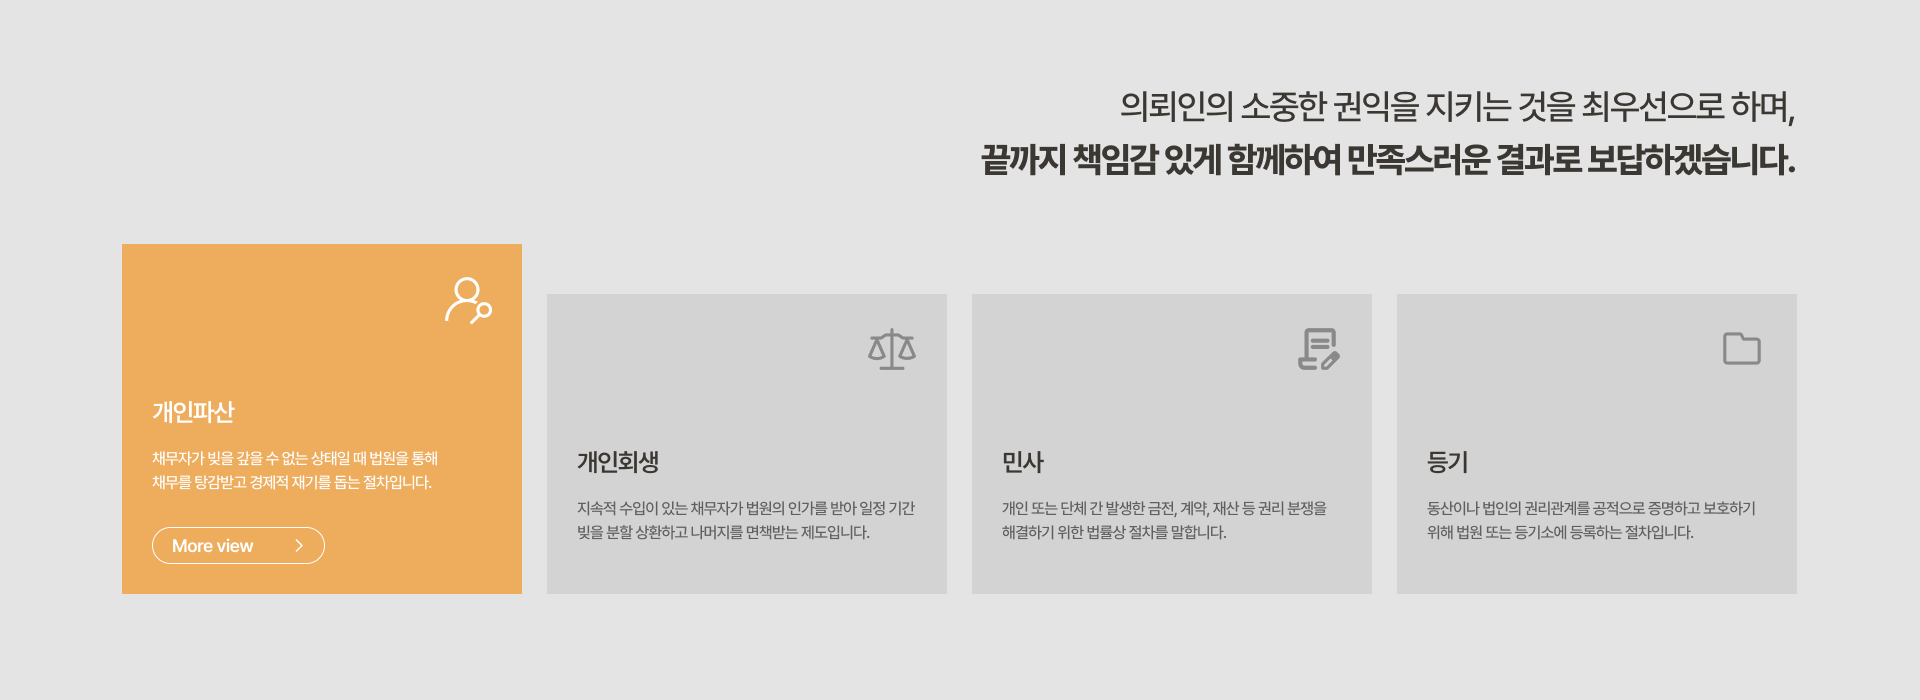
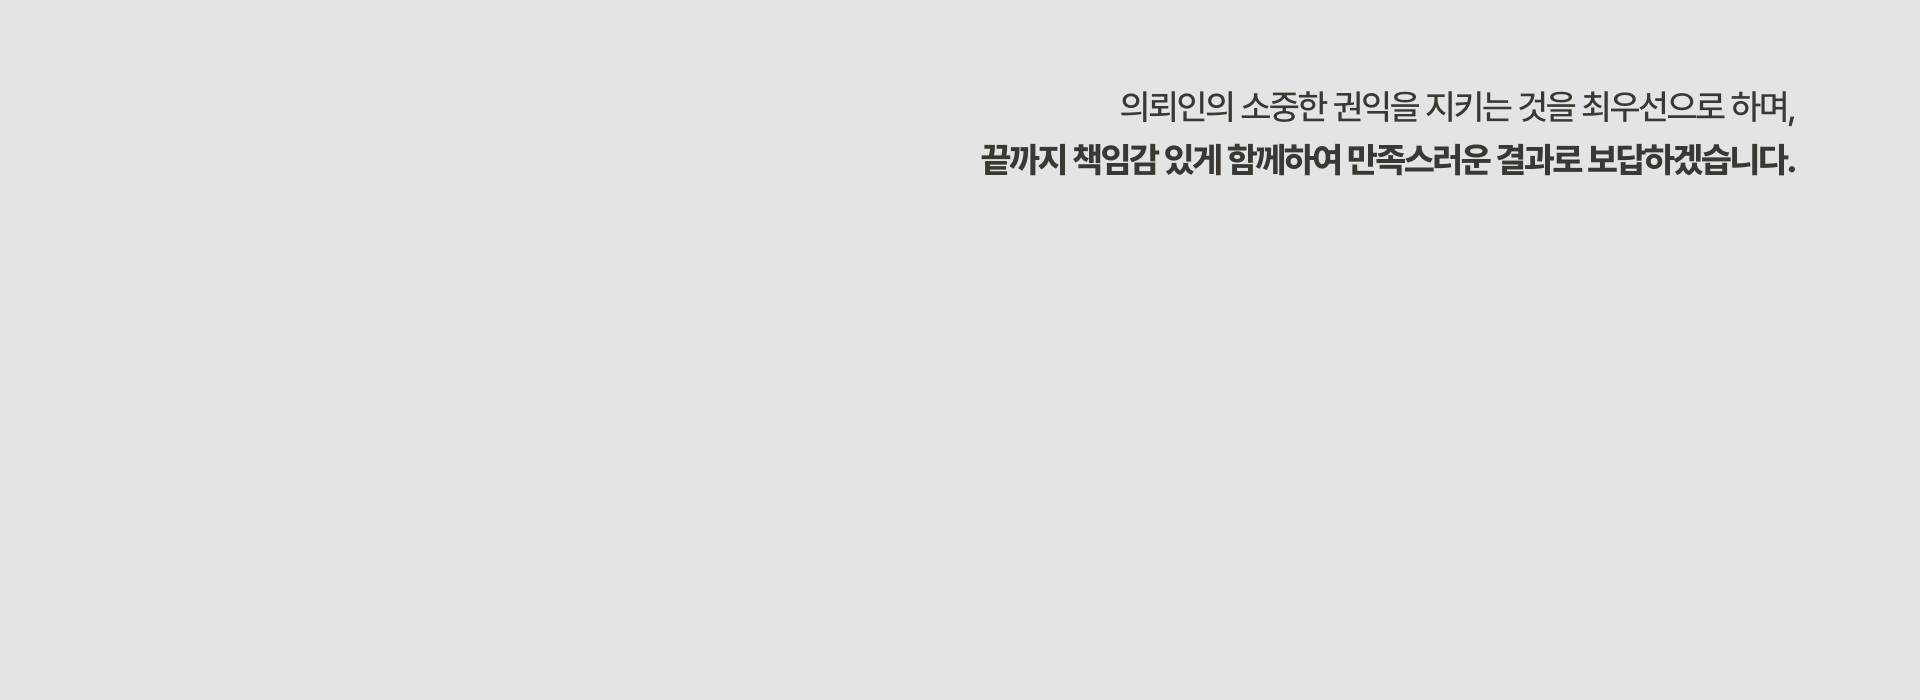
Add mobile responsive layout with separate mobile section images
- Split page into mobile (md:hidden) and desktop (hidden md:block) views
- Mobile uses dedicated images from /mobile_section/ (m_section_01~07)
- Mobile section 4 has 2x2 card overlay with adjusted sizing
- Desktop layout remains unchanged with 4-column card overlay
- Updated section_04.png

diff --git a/src/app/page.tsx b/src/app/page.tsx
@@ -12,13 +12,25 @@ const bottomSections = [
   { src: "/pc_section/section_06.png", alt: "섹션 6" },
 ];
 
+const mobileTopSections = [
+  { src: "/mobile_section/m_section_01.png", alt: "모바일 섹션 1" },
+  { src: "/mobile_section/m_section_02.png", alt: "모바일 섹션 2" },
+  { src: "/mobile_section/m_section_03.png", alt: "모바일 섹션 3" },
+];
+
+const mobileBottomSections = [
+  { src: "/mobile_section/m_section_05.png", alt: "모바일 섹션 5" },
+  { src: "/mobile_section/m_section_06.png", alt: "모바일 섹션 6" },
+  { src: "/mobile_section/m_section_07.png", alt: "모바일 섹션 7" },
+];
+
 const serviceCards = [
   {
     title: "개인파산",
     desc: "채무자가 빚을 갚을 수 없는 상태일 때 법원을 통해 채무를 탕감받고 경제적 재기를 돕는 절차입니다.",
     href: "/bankruptcy",
     icon: (
-      <svg xmlns="http://www.w3.org/2000/svg" fill="none" viewBox="0 0 24 24" strokeWidth={1.5} stroke="currentColor" className="w-10 h-10">
+      <svg xmlns="http://www.w3.org/2000/svg" fill="none" viewBox="0 0 24 24" strokeWidth={1.5} stroke="currentColor" className="w-6 h-6 md:w-10 md:h-10">
         <path strokeLinecap="round" strokeLinejoin="round" d="M15.75 6a3.75 3.75 0 1 1-7.5 0 3.75 3.75 0 0 1 7.5 0ZM4.501 20.118a7.5 7.5 0 0 1 14.998 0A17.933 17.933 0 0 1 12 21.75c-2.676 0-5.216-.584-7.499-1.632Z" />
       </svg>
     ),
@@ -28,7 +40,7 @@ const serviceCards = [
     desc: "지속적 수입이 있는 채무자가 법원의 인가를 받아 일정 기간 빚을 분할 상환하고 나머지를 면책받는 제도입니다.",
     href: "/rehabilitation",
     icon: (
-      <svg xmlns="http://www.w3.org/2000/svg" fill="none" viewBox="0 0 24 24" strokeWidth={1.5} stroke="currentColor" className="w-10 h-10">
+      <svg xmlns="http://www.w3.org/2000/svg" fill="none" viewBox="0 0 24 24" strokeWidth={1.5} stroke="currentColor" className="w-6 h-6 md:w-10 md:h-10">
         <path strokeLinecap="round" strokeLinejoin="round" d="M12 3v17.25m0 0c-1.472 0-2.882.265-4.185.75M12 20.25c1.472 0 2.882.265 4.185.75M18.75 4.97A48.416 48.416 0 0 0 12 4.5c-2.291 0-4.545.16-6.75.47m13.5 0c1.01.143 2.01.317 3 .52m-3-.52 2.62 10.726c.122.499-.106 1.028-.589 1.202a5.988 5.988 0 0 1-2.031.352 5.988 5.988 0 0 1-2.031-.352c-.483-.174-.711-.703-.59-1.202L18.75 4.971Zm-16.5.52c.99-.203 1.99-.377 3-.52m0 0 2.62 10.726c.122.499-.106 1.028-.589 1.202a5.989 5.989 0 0 1-2.031.352 5.989 5.989 0 0 1-2.031-.352c-.483-.174-.711-.703-.59-1.202L5.25 4.971Z" />
       </svg>
     ),
@@ -38,7 +50,7 @@ const serviceCards = [
     desc: "개인 또는 단체 간 발생한 금전, 계약, 재산 등 권리 분쟁을 해결하기 위한 법률상 절차를 말합니다.",
     href: "/civil",
     icon: (
-      <svg xmlns="http://www.w3.org/2000/svg" fill="none" viewBox="0 0 24 24" strokeWidth={1.5} stroke="currentColor" className="w-10 h-10">
+      <svg xmlns="http://www.w3.org/2000/svg" fill="none" viewBox="0 0 24 24" strokeWidth={1.5} stroke="currentColor" className="w-6 h-6 md:w-10 md:h-10">
         <path strokeLinecap="round" strokeLinejoin="round" d="M19.5 14.25v-2.625a3.375 3.375 0 0 0-3.375-3.375h-1.5A1.125 1.125 0 0 1 13.5 7.125v-1.5a3.375 3.375 0 0 0-3.375-3.375H8.25m2.25 0H5.625c-.621 0-1.125.504-1.125 1.125v17.25c0 .621.504 1.125 1.125 1.125h12.75c.621 0 1.125-.504 1.125-1.125V11.25a9 9 0 0 0-9-9Z" />
       </svg>
     ),
@@ -48,7 +60,7 @@ const serviceCards = [
     desc: "동산이나 법인의 권리관계를 공적으로 증명하고 보호하기 위해 법원 또는 등기소에 등록하는 절차입니다.",
     href: "/registry",
     icon: (
-      <svg xmlns="http://www.w3.org/2000/svg" fill="none" viewBox="0 0 24 24" strokeWidth={1.5} stroke="currentColor" className="w-10 h-10">
+      <svg xmlns="http://www.w3.org/2000/svg" fill="none" viewBox="0 0 24 24" strokeWidth={1.5} stroke="currentColor" className="w-6 h-6 md:w-10 md:h-10">
         <path strokeLinecap="round" strokeLinejoin="round" d="M2.25 12.75V12A2.25 2.25 0 0 1 4.5 9.75h15A2.25 2.25 0 0 1 21.75 12v.75m-8.69-6.44-2.12-2.12a1.5 1.5 0 0 0-1.061-.44H4.5A2.25 2.25 0 0 0 2.25 6v12a2.25 2.25 0 0 0 2.25 2.25h15A2.25 2.25 0 0 0 21.75 18V9a2.25 2.25 0 0 0-2.25-2.25h-5.379a1.5 1.5 0 0 1-1.06-.44Z" />
       </svg>
     ),
@@ -58,54 +70,117 @@ const serviceCards = [
 export default function Home() {
   return (
     <div className="flex flex-col w-full">
-      {topSections.map((section) => (
-        <Image
-          key={section.src}
-          src={section.src}
-          alt={section.alt}
-          width={1920}
-          height={1080}
-          className="w-full h-auto"
-        />
-      ))}
+      {/* 모바일 */}
+      <div className="md:hidden">
+        {mobileTopSections.map((section) => (
+          <Image
+            key={section.src}
+            src={section.src}
+            alt={section.alt}
+            width={750}
+            height={1334}
+            className="w-full h-auto"
+          />
+        ))}
 
-      {/* 섹션 4 - 배경 이미지 + 카드 */}
-      <div
-        className="relative w-full bg-cover bg-center bg-no-repeat"
-        style={{ backgroundImage: "url(/pc_section/section_04.png)" }}
-      >
-        <div className="w-full flex items-end justify-center py-[3%]">
-          <div className="grid grid-cols-4 gap-6 w-[90%] mx-auto">
-            {serviceCards.map((card) => (
-              <Link
-                key={card.href}
-                href={card.href}
-                className="group block rounded-lg p-10 hover:brightness-95 transition-all relative"
-                style={{ backgroundColor: "#D3D3D3", minHeight: "280px" }}
-              >
-                <div className="absolute top-8 right-8 text-zinc-400 group-hover:text-zinc-500 transition-colors">
-                  {card.icon}
-                </div>
-                <div className="absolute bottom-8 left-10 right-10">
-                  <h3 className="text-2xl font-bold text-zinc-800 mb-3">{card.title}</h3>
-                  <p className="text-sm text-zinc-500 leading-relaxed">{card.desc}</p>
-                </div>
-              </Link>
-            ))}
+        {/* 모바일 섹션 4 - 이미지 위에 카드 오버레이 */}
+        <div className="relative w-full">
+          <Image
+            src="/mobile_section/m_section_04.png"
+            alt="모바일 섹션 4"
+            width={750}
+            height={1334}
+            className="w-full h-auto"
+          />
+          <div className="absolute bottom-[8%] left-0 right-0 flex justify-center">
+            <div className="grid grid-cols-2 gap-2 w-[90%]">
+              {serviceCards.map((card) => (
+                <Link
+                  key={card.href}
+                  href={card.href}
+                  className="group block rounded-lg p-4 hover:brightness-95 transition-all relative min-h-[130px]"
+                  style={{ backgroundColor: "#D3D3D3" }}
+                >
+                  <div className="absolute top-3 right-3 text-zinc-400 group-hover:text-zinc-500 transition-colors">
+                    {card.icon}
+                  </div>
+                  <div className="absolute bottom-3 left-4 right-4">
+                    <h3 className="text-base font-bold text-zinc-800 mb-1">{card.title}</h3>
+                    <p className="text-[11px] text-zinc-500 leading-relaxed">{card.desc}</p>
+                  </div>
+                </Link>
+              ))}
+            </div>
           </div>
         </div>
+
+        {mobileBottomSections.map((section) => (
+          <Image
+            key={section.src}
+            src={section.src}
+            alt={section.alt}
+            width={750}
+            height={1334}
+            className="w-full h-auto"
+          />
+        ))}
       </div>
 
-      {bottomSections.map((section) => (
-        <Image
-          key={section.src}
-          src={section.src}
-          alt={section.alt}
-          width={1920}
-          height={1080}
-          className="w-full h-auto"
-        />
-      ))}
+      {/* 데스크탑: PC 전용 이미지 + 섹션4 카드 오버레이 */}
+      <div className="hidden md:block">
+        {topSections.map((section) => (
+          <Image
+            key={section.src}
+            src={section.src}
+            alt={section.alt}
+            width={1920}
+            height={1080}
+            className="w-full h-auto"
+          />
+        ))}
+
+        {/* 섹션 4 - 이미지 위에 카드 오버레이 */}
+        <div className="relative w-full">
+          <Image
+            src="/pc_section/section_04.png"
+            alt="섹션 4"
+            width={1920}
+            height={1080}
+            className="w-full h-auto"
+          />
+          <div className="flex absolute bottom-[15%] left-0 right-0 justify-center">
+            <div className="grid grid-cols-4 gap-6 w-[85%]">
+              {serviceCards.map((card) => (
+                <Link
+                  key={card.href}
+                  href={card.href}
+                  className="group block rounded-lg p-10 hover:brightness-95 transition-all relative min-h-[280px]"
+                  style={{ backgroundColor: "#D3D3D3" }}
+                >
+                  <div className="absolute top-8 right-8 text-zinc-400 group-hover:text-zinc-500 transition-colors">
+                    {card.icon}
+                  </div>
+                  <div className="absolute bottom-8 left-10 right-10">
+                    <h3 className="text-2xl font-bold text-zinc-800 mb-3">{card.title}</h3>
+                    <p className="text-sm text-zinc-500 leading-relaxed">{card.desc}</p>
+                  </div>
+                </Link>
+              ))}
+            </div>
+          </div>
+        </div>
+
+        {bottomSections.map((section) => (
+          <Image
+            key={section.src}
+            src={section.src}
+            alt={section.alt}
+            width={1920}
+            height={1080}
+            className="w-full h-auto"
+          />
+        ))}
+      </div>
     </div>
   );
 }
